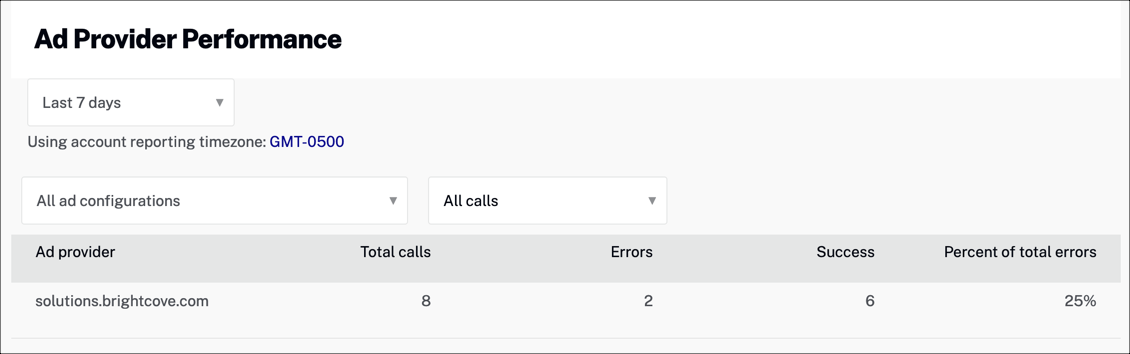
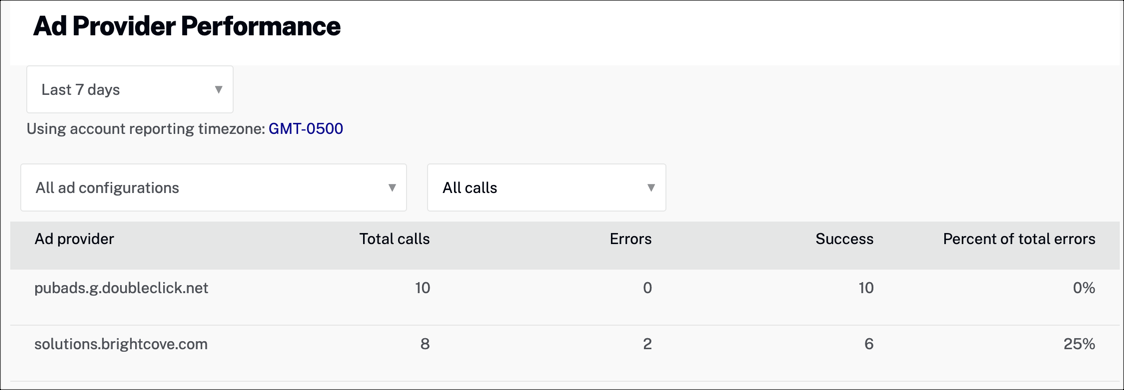
ad config performance

diff --git a/_site/analytics/ssai-performance-data.html b/_site/analytics/ssai-performance-data.html
@@ -1402,6 +1402,36 @@ function doGTranslate(lang_pair) {if(lang_pair.value)lang_pair=lang_pair.value;i
       </ul>
     </section>
 
+    <section class="bcls-section">
+      <h2 id="Ad_Config_Performance">Ad Config Performance</h2>
+      <p>The Ad Config Performance page shows the number of successful ad requests and the number of errors associated with each ad configuration. This allows you to quickly see the percentage of ad errors for each configuration.</p>
+      <figure class="bcls-figure"><img class="bcls-image--no-border" alt="Ad Config Performance" src="/assets/images/analytics/ssai/ad-config-performance.png" />
+        <figcaption class="bcls-caption--image">Ad Config Performance</figcaption>
+      </figure>
+
+      <h3>Ad providers</h3>
+      <P>Use the dropdown menu to filter results for a specific ad provider or show data for <strong>All ad providers</strong>.</P>
+      <figure class="bcls-figure"><img class="bcls-image--no-border" alt="Ad providers" src="/assets/images/analytics/ssai/ad-providers.png" />
+        <figcaption class="bcls-caption--image">Ad providers</figcaption>
+      </figure>
+
+      <h3>All calls</h3>
+      <P>Use the dropdown menu to filter results for <strong>All Tracker Impressions</strong>, <strong>All Ad Requests</strong>, or show data for <strong>All calls</strong>.</P>
+      <figure class="bcls-figure"><img class="bcls-image--no-border" alt="All calls" src="/assets/images/analytics/ssai/all-calls.png" />
+        <figcaption class="bcls-caption--image">All calls</figcaption>
+      </figure>
+
+      <h3>Data view</h3>
+      <p>The graph shows the number of SSAI ad errors by date. The details display below the graph:</p>
+      <ul>
+        <li><strong>Ad provider</strong> - Your ad provider</li>
+        <li><strong>Total calls</strong> - Total number of ad request calls</li>
+        <li><strong>Errors</strong> - Number of ad request errors associated with the ad provider</li>
+        <li><strong>Success</strong> - Number of successful ad request calls to the ad provider</li>
+        <li><strong>Percent of total errors</strong> - The percentage of errors related to the total number of request calls</li>
+      </ul>
+    </section>
+
 </article>
 
 <!-- complete bootstrap layout -->

diff --git a/analytics/ssai-performance-data.html b/analytics/ssai-performance-data.html
@@ -154,4 +154,34 @@ layout: staging
       </ul>
     </section>
 
+    <section class="bcls-section">
+      <h2 id="Ad_Config_Performance">Ad Config Performance</h2>
+      <p>The Ad Config Performance page shows the number of successful ad requests and the number of errors associated with each ad configuration. This allows you to quickly see the percentage of ad errors for each configuration.</p>
+      <figure class="bcls-figure"><img class="bcls-image--no-border" alt="Ad Config Performance" src="/assets/images/analytics/ssai/ad-config-performance.png" />
+        <figcaption class="bcls-caption--image">Ad Config Performance</figcaption>
+      </figure>
+
+      <h3>Ad providers</h3>
+      <P>Use the dropdown menu to filter results for a specific ad provider or show data for <strong>All ad providers</strong>.</P>
+      <figure class="bcls-figure"><img class="bcls-image--no-border" alt="Ad providers" src="/assets/images/analytics/ssai/ad-providers.png" />
+        <figcaption class="bcls-caption--image">Ad providers</figcaption>
+      </figure>
+
+      <h3>All calls</h3>
+      <P>Use the dropdown menu to filter results for <strong>All Tracker Impressions</strong>, <strong>All Ad Requests</strong>, or show data for <strong>All calls</strong>.</P>
+      <figure class="bcls-figure"><img class="bcls-image--no-border" alt="All calls" src="/assets/images/analytics/ssai/all-calls.png" />
+        <figcaption class="bcls-caption--image">All calls</figcaption>
+      </figure>
+
+      <h3>Data view</h3>
+      <p>The graph shows the number of SSAI ad errors by date. The details display below the graph:</p>
+      <ul>
+        <li><strong>Ad provider</strong> - Your ad provider</li>
+        <li><strong>Total calls</strong> - Total number of ad request calls</li>
+        <li><strong>Errors</strong> - Number of ad request errors associated with the ad provider</li>
+        <li><strong>Success</strong> - Number of successful ad request calls to the ad provider</li>
+        <li><strong>Percent of total errors</strong> - The percentage of errors related to the total number of request calls</li>
+      </ul>
+    </section>
+
 </article>
